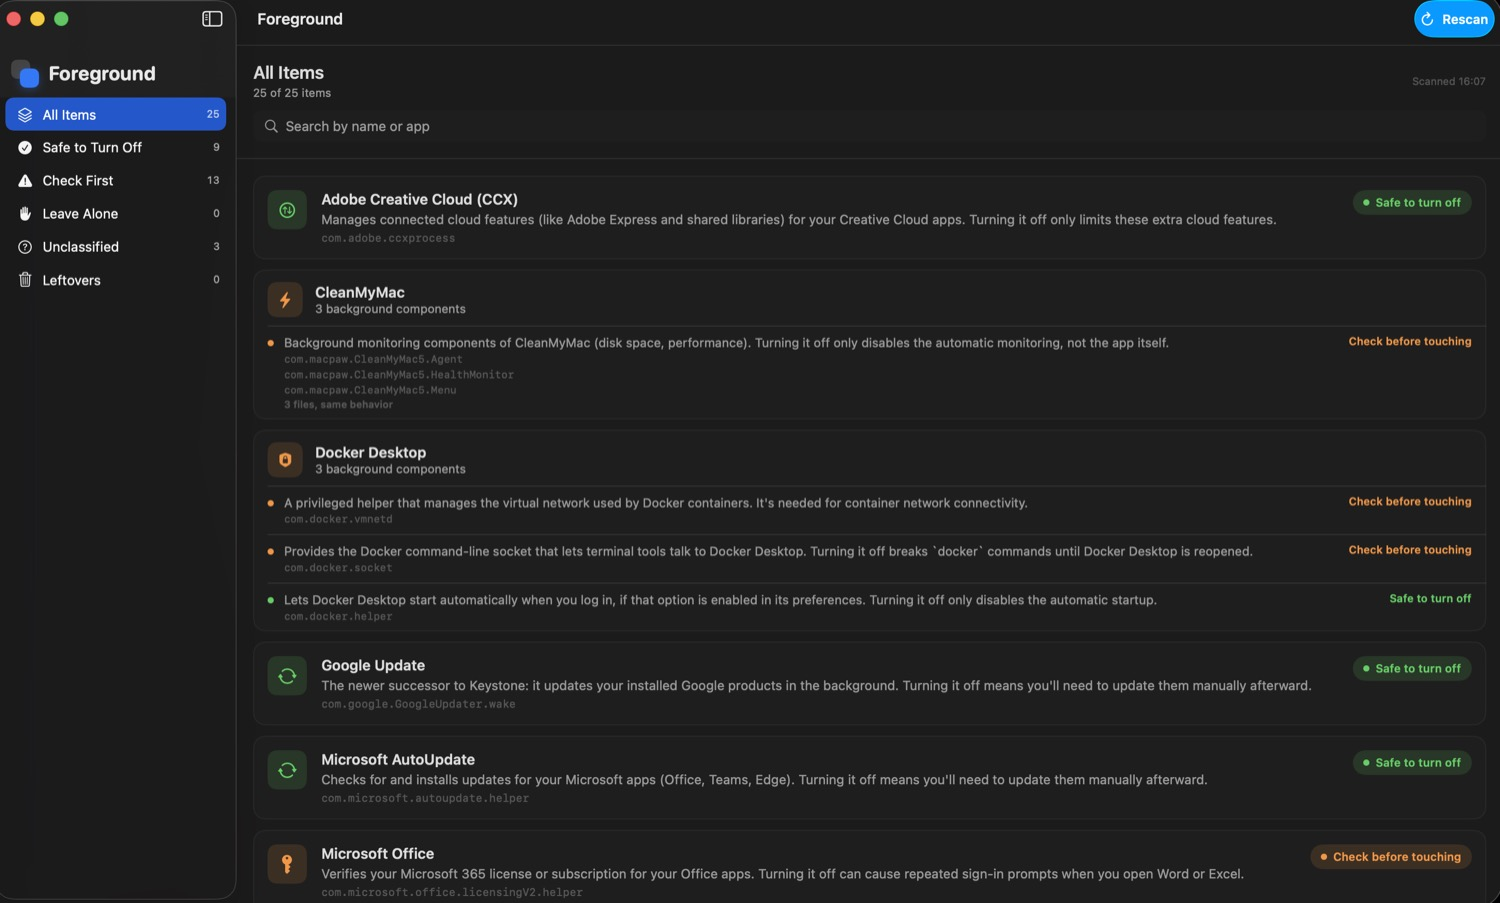
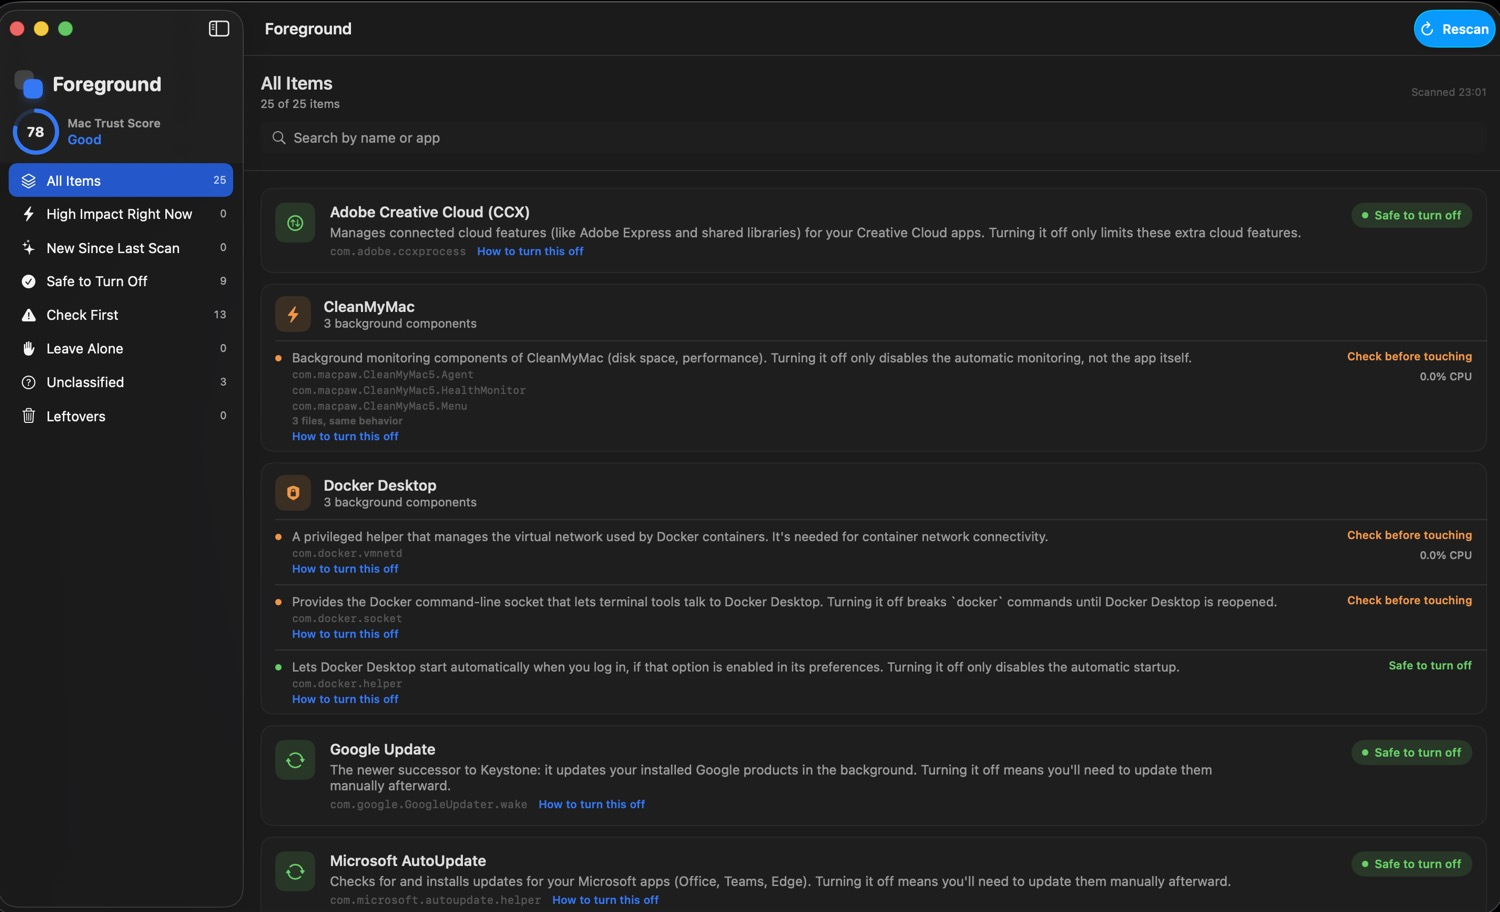
Update screenshot and copy to reflect Trust Score and new features

diff --git a/index.html b/index.html
@@ -97,7 +97,7 @@
         <div style="display:flex; flex-direction:column; gap:12px;">
           <div style="font-family:'Space Grotesk',sans-serif; font-size:15px; font-weight:600; color:#2E9CFF;">02</div>
           <h3 style="font-size:19px; font-weight:600; color:#F8FAF9;">Explain</h3>
-          <p style="font-size:15px; line-height:1.6; color:#9BA39F;">For every item you get who installed it, what it actually does, and how risky it is to touch. Plain English, not acronyms.</p>
+          <p style="font-size:15px; line-height:1.6; color:#9BA39F;">For every item you get who installed it, what it actually does, and how risky it is to touch — plus one overall Mac Trust Score so you know where you stand at a glance.</p>
         </div>
 
         <div style="display:flex; flex-direction:column; gap:12px;">
